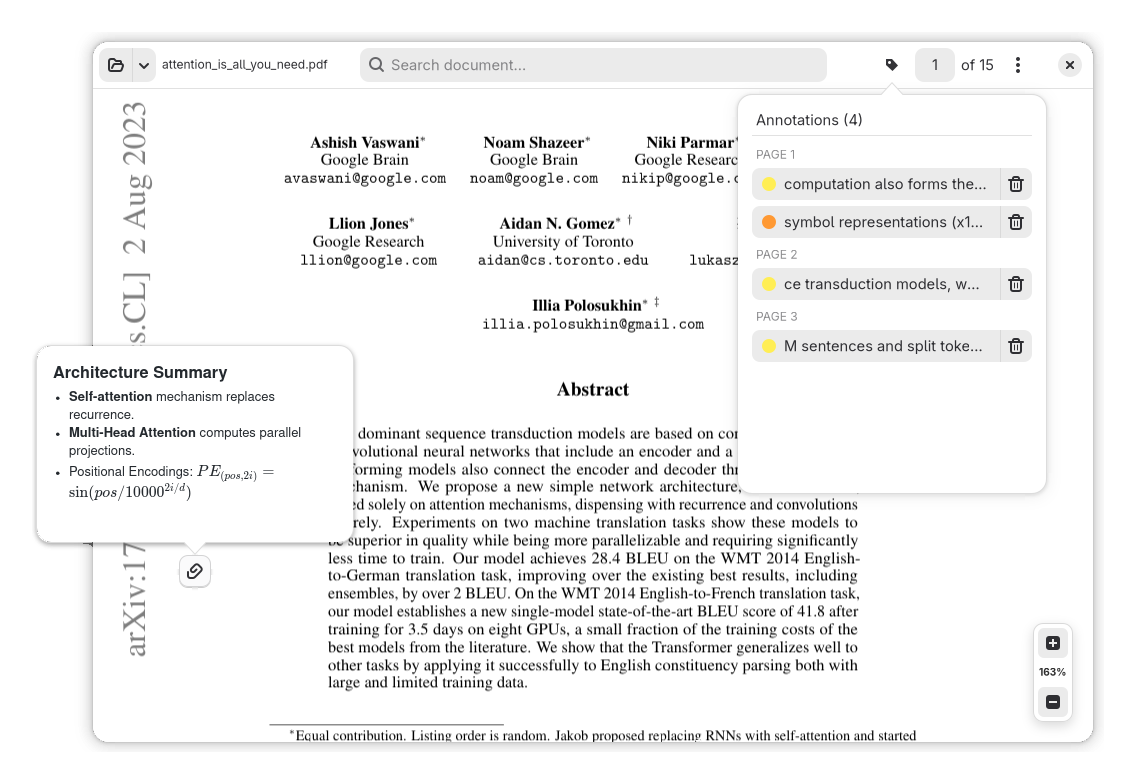
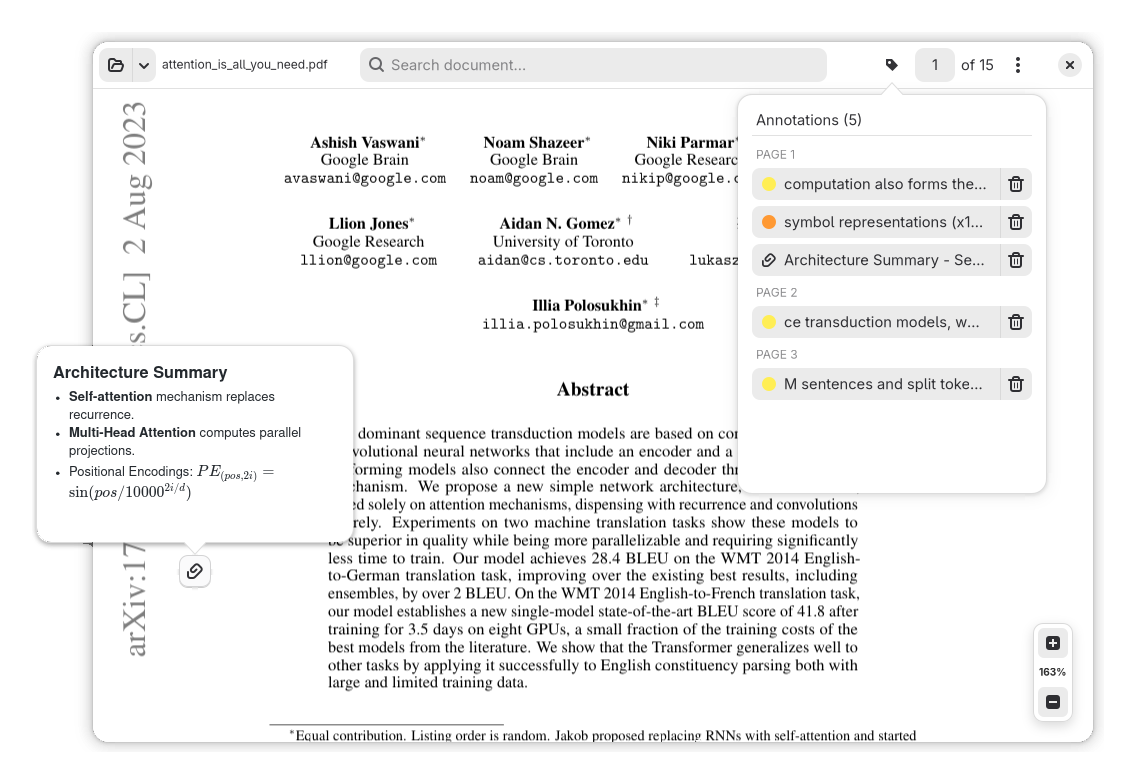
feat(notes): simplified md preview in overview, fix state-note list, doc
- _simplify_md_preview: strip heading markers and math/bold-italic markers
  ($/$$, * **, _ __), join all lines with spaces, truncate to 100 chars
  (GTK ellipsizes) for the annotations overview row
- Call _update_annotations_button() after injecting --state notes so they
  appear in the popover list (was missed next to the highlights branch)
- README: document the markdown-notes feature, drop stale "Coming Soon"
- Retake attention_notes_annotations.png

Changed region(s): [[0.647, 0.3061, 0.8935, 0.5204]]

diff --git a/pdfatlas/ui/window.py b/pdfatlas/ui/window.py
@@ -1,4 +1,5 @@
 import os
+import re
 import threading
 from pathlib import Path
 
@@ -40,6 +41,27 @@ from .gui import box, button, label, search_entry, scrolled_window, spacer
 from .cairo_utils import hsl_to_hex
 
 DEBOUNCE_MS = 150  # search-as-you-type debounce delay
+
+#: Max characters of a simplified note preview before GTK ellipsizes it.
+MAX_NOTE_PREVIEW_CHARS = 100
+
+
+def _simplify_md_preview(markdown: str) -> str:
+    """One-line markdown preview for the overview list row.
+
+    Strips heading markers line-by-line, drops math delimiters ($ / $$) and
+    bold/italic markers (*, **, _, __), joins all lines with spaces, collapses
+    whitespace, and truncates around MAX_NOTE_PREVIEW_CHARS; GTK ellipsizes
+    the rest.
+    """
+    lines = []
+    for ln in (markdown or "").splitlines():
+        ln = re.sub(r"^#{1,6}\s*", "", ln).strip()
+        if ln:
+            lines.append(ln)
+    text = re.sub(r"(\$+|\*+|_+)", "", " ".join(lines))
+    text = re.sub(r"\s{2,}", " ", text).strip()[:MAX_NOTE_PREVIEW_CHARS]
+    return text or "(Note)"
 
 # Fluorescent highlighter pen colors sorted strictly by hue with increased lightness (74%-82%)
 PALETTE_COLS = 6
@@ -677,6 +699,7 @@ class MainWindow(Adw.ApplicationWindow):
                                 n["markdown"] = ""
                         self.notes = sample_notes
                         self.notes_layer.set_notes(sample_notes)
+                        self._update_annotations_button()
 
                     if state.get("annotations_popover"):
                         def open_popover():
@@ -873,7 +896,7 @@ class MainWindow(Adw.ApplicationWindow):
                 note_icon.set_valign(Gtk.Align.CENTER)
                 item_box.append(note_icon)
                 md_text = item.get("markdown", "") or ""
-                txt = next((ln.strip() for ln in md_text.splitlines() if ln.strip()), "") or "(Note)"
+                txt = _simplify_md_preview(md_text)
 
             txt_lbl = label(text=txt)
             txt_lbl.set_single_line_mode(True)

diff --git a/README.md b/README.md
@@ -71,11 +71,11 @@ Select text in any document to open the context toolbar:
 
 <img src="assets/screenshots/attention_notes_annotations.png" alt="Annotations, Highlights & Markdown Notes" width="45%" align="right" style="margin-left: 20px; margin-bottom: 20px;" />
 
-### Annotations & Highlights
+### Annotations, Highlights & Markdown Notes
 
-- **Overview Popover:** Lists all document highlights grouped by page.
-- **Quick Jump:** Click any item to jump directly to it in the document.
-- **Coming Soon:** *Text notes & comments on annotations.*
+- **Overview Popover:** Lists all document highlights and markdown notes, grouped by page, with quick-jump on click.
+- **Markdown Notes:** Drop a note at any point on the page (paperclip icon) and write it in Markdown.
+- **Rich Preview & Editing:** Hover a note icon for a rendered preview; click to open the editor with **Source**/**Rendered** tabs, KaTeX math support, and autosave.
 
 <br clear="all" />
 
